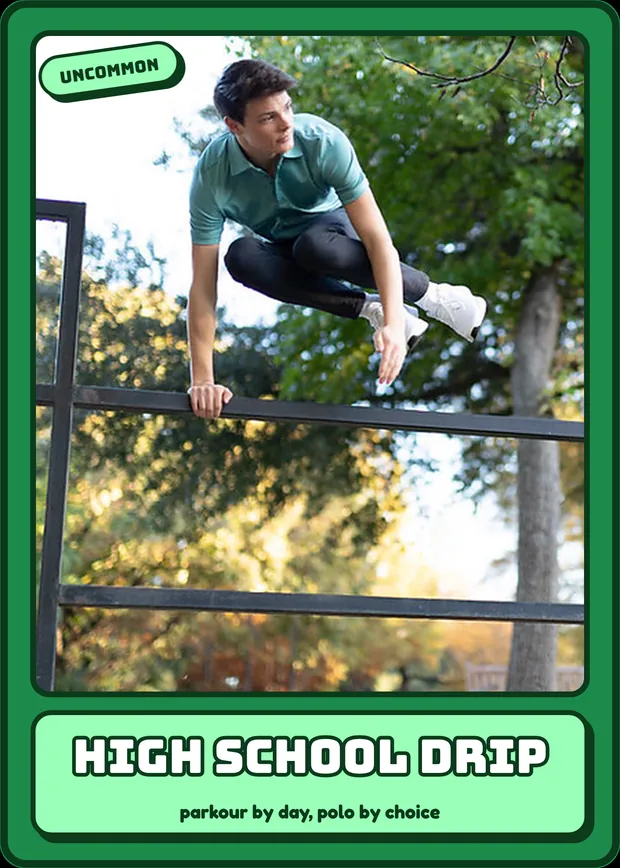
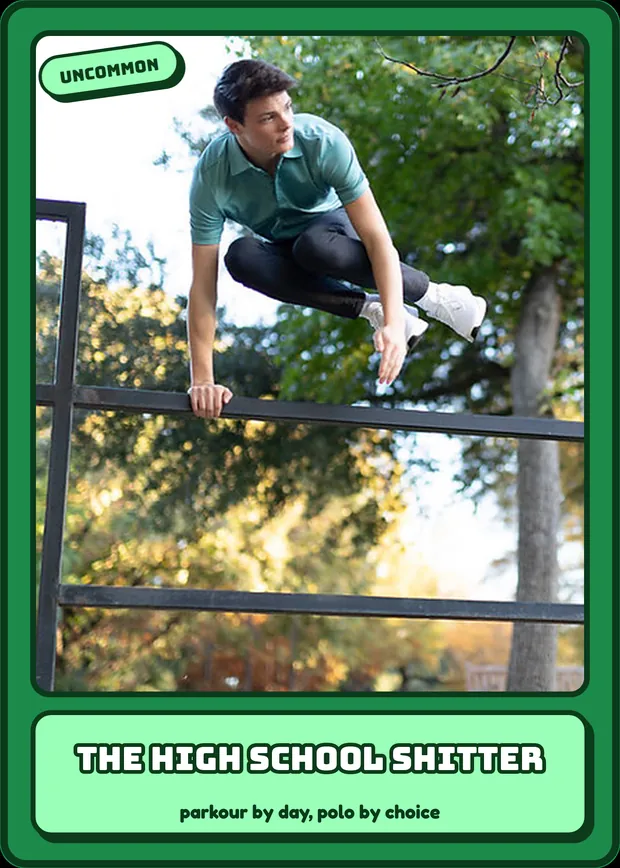
Rename High School Drip to The High School Shitter (card art too)
Claude-Session: https://claude.ai/code/session_013nJUEz6fhvJgmXenou7Czv

Changed region(s): [[0.0919, 0.8399, 0.8887, 0.9021]]

diff --git a/public/index.html b/public/index.html
@@ -5564,7 +5564,7 @@ let _FLC=null;const flCards=()=>_FLC||(_FLC=FL_ADD.map(([k,r,name,o])=>{o=o||{};
 /* ===== ChudBootyCheeks (cb, owner Oct 26): code-defined like FL_ADD. Art = public/cards/cb/<slug>.webp (620 px), ids "cb-<slug>" (never rename).
    Print runs CB_LIM (Fantasyland's + 1 Dragon); Super Rares get SR_EXTRA on top like every set. Poop-brown frame (.cbc), porta-potty logo (LOGO.cb).
    img:false = placeholder face. Faces blurred: Chad Baby (mv, the baby), Light Bearers + Tasting Flight (bystanders). */
-const CB_IMGV=1,CB_LIM=[Infinity,100,25,7,3,2,1];
+const CB_IMGV=2,CB_LIM=[Infinity,100,25,7,3,2,1];
 const CB_ADD=[
   ["united-we-sit",0,"United We Sit",{img:false}],["wraparound-warrior",0,"Wraparound Warrior"],["porch-rave",0,"Porch Rave"],["late-night-sip",0,"Late Night Sip"],
   ["safari-squad",0,"Safari Squad"],["rage-baiter",0,"Rage Baiter",{img:false}],["ball-knowledge-required",0,"Ball Knowledge Required",{img:false}],["campfire-coma",0,"Campfire Coma"],
@@ -5572,7 +5572,7 @@ const CB_ADD=[
   ["crumb-catcher",0,"Crumb Catcher"],["after-hours",0,"After Hours"],["suit-and-smoke",0,"Suit & Smoke"],["durag-diplomacy",0,"Durag Diplomacy"],
   ["suspicious-floof",0,"Suspicious Floof"],["light-bearers",0,"Light Bearers"],["good-boy-up-close",0,"Good Boy, Up Close"],["shift-crew",0,"Shift Crew"],
   ["new-friend",1,"New Friend"],["beer-lovers",1,"Beer Lovers"],["fermented-faithful",1,"Fermented & Faithful"],["boutonniere-boys",1,"Boutonniere Boys"],
-  ["caught-mid-bite",1,"Caught Mid-Bite"],["low-profile",1,"Low Profile"],["couch-council",1,"Couch Council"],["high-school-drip",1,"High School Drip",{desc:"Part of the ChudBootyCheeks collection. Pulling it gets messy."}],
+  ["caught-mid-bite",1,"Caught Mid-Bite"],["low-profile",1,"Low Profile"],["couch-council",1,"Couch Council"],["high-school-drip",1,"The High School Shitter",{desc:"Part of the ChudBootyCheeks collection. Pulling it gets messy."}],
   ["parking-lot-pavlov",1,"Parking Lot Pavlov"],["gun-show",1,"Gun Show"],
   ["knights-of-the-pint",2,"Knights of the Pint"],["grammy-hammy",2,"Grammy Hammy"],["noggatron",2,"Noggatron"],["cody-maverick",2,"Cody Maverick"],
   ["on-the-big-screen",2,"On the Big Screen"],["dark-knights",2,"The Dark Knights"],["chris-from-tinder",2,"Chris from Tinder"],["tasting-flight",2,"Tasting Flight"],
@@ -6008,7 +6008,7 @@ function viewPacks(){if(!S.me)return `<div class="empty">Sign in to collect card
         <div class="pkinfo"><div class="pkg"><span class="stlbl">Guaranteed</span> ${g}</div>
         <div class="pkodds">${[3,4,5,6].map(r=>`<span style="color:${CR[r].c}">${CR[r].n.split(" ")[0]} ${pkChance(p,r)>0?fmtPct(pkChance(p,r)):"✕"}</span>`).join("")}</div>
         <button type="button" class="btn" data-pkbuy="${p.id}" ${(bal<pkPrice(p)*pq&&!pkFree(p))||blk?"disabled":""}>${blk?"Sold out":pkFree(p)?`🎁 Open free (${pkFreeN(p)} left)`:`Open${pq>1?" "+pq+"×":""} · ${(pkPrice(p)*pq).toLocaleString()} BB${pkPrice(p)<p.price?` <s class="muted">${(p.price*pq).toLocaleString()}</s>`:""}`}</button></div></div>`}).join("")}</div>
-      <p class="small muted">Odds shown are the chance of at least one card of that rarity or better in the pack.</p>${S.canEdit&&pkSt().set==="cb"?`<button type="button" class="btn ghost small" data-cbtest>🧪 Test pack (admin, free): High School Drip + Lunch?</button>`:""}`}
+      <p class="small muted">Odds shown are the chance of at least one card of that rarity or better in the pack.</p>${S.canEdit&&pkSt().set==="cb"?`<button type="button" class="btn ghost small" data-cbtest>🧪 Test pack (admin, free): The High School Shitter + Lunch?</button>`:""}`}
   if(st.tab==="coll"){const sets=Object.keys(CSETS).filter(setOpen);const cs_=st.cset&&sets.includes(st.cset)?st.cset:sets[0];const who=st.who&&S.prefs[st.who]?st.who:S.me,mine=who===S.me;const cat=cs_==="lm"||cs_==="fl"?[...cardsCat(cs_),...curseCards()]:cardsCat(cs_);const have=cat.filter(c=>cardCountAll(c.id,who)>0).length;const isPm=cs_==="pm";const tiers=isPm?[8,7]:(cat.some(c=>c.abil==="curse")?["curse",6,5,4,3,2,1,0]:[6,5,4,3,2,1,0]);const inT=(c,r)=>r==="curse"?c.abil==="curse":c.r===r&&c.abil!=="curse";
     const head=(r,txt)=>`<div class="crhead" style="--rc:${(r==="curse"?CR_CURSE:CR[r]).c}"><span class="crdot"></span><b>${esc((r==="curse"?CR_CURSE:CR[r]).n)}</b><span class="small muted">${txt}</span></div>`;
     const lvTiles=c=>{const cs=myCards(who),ks=Object.keys(cs).filter(k=>(k===c.id||k.startsWith(c.id+"@"))&&Number(cs[k])>0).sort((a,b)=>lvOf(b)-lvOf(a));return ks.map(k=>cardHtml(cardById(k),{count:Number(cs[k]),click:true,small:true,who:mine?null:who})).join("")};
@@ -6646,6 +6646,7 @@ function tiBankHtml(){const me=S.me;if(!me)return "";const q=S.prefs[me]||{},L=l
 /* What's new: shown once per player after an update (first sign-in after a deploy). Add a NEW entry at the TOP of NEWS
    (v = previous top v + 1) for every user-visible change; plain words, no tech talk. Seen state: prefs.newsSeen (+ localStorage). */
 const NEWS=[
+ {v:136,d:"Oct 26",t:[["💩","High School Drip has been renamed The High School Shitter. Still don't pull it"]]},
  {v:135,d:"Oct 26",t:[["💩","New collection: ChudBootyCheeks, 50 new cards including a Dragon"],["🌌","Multiverse gets 3 new Super Rares: Shock & Awe, Don't Jump In and Chad Baby"],["⚡","Lots of new card abilities. Check the back of each card"],["🎓","Whatever you do, don't pull High School Drip"]]},
  {v:134,d:"Oct 26",t:[["🏆","Every Grail card now pays 1,000 BB a day"],["🔨","Card Crafting: Rares can now go to LV 4 and Super Rares to LV 3, with bigger dividends and stronger abilities"]]},
  {v:133,d:"Oct 25",t:[["💜","Every Super Rare card now has 2 more copies in the packs"]]},

diff --git a/CLAUDE.md b/CLAUDE.md
@@ -198,7 +198,7 @@ only; live tables are only subscribed while at a table. Don't add listeners on w
   Placeholders (`img:false`): supply-drop, rocktopus, forbidden-archive, average-cowboys-fan, minion-commander, legendary-crew, another-day (owner's art not usable:
   copyrighted characters / slur title). Faces of bystanders blurred in honors-class-clown, autism-attack; mirror reflection in squeaky-clean.
 - **ChudBootyCheeks (`cb`, Oct 26, owner's Card_Expansion.xlsx):** code-defined like Fantasyland: `CB_ADD`, `cbCards()`, art `public/cards/cb/<slug>.webp` (`CB_IMGV`), print runs `CB_LIM` [∞,100,25,7,3,2,1] (+SR_EXTRA), open to all (`setOpen`), poop-brown frame `.cbc`, `.setcard.poop`, porta-potty `LOGO.cb`. Owner Oct 26: parody art with copyrighted characters (Batman, Lightning McQueen) is OK for this private app — don't flag it. Placeholders (`img:false`): United We Sit, Rage Baiter, Ball Knowledge Required, Rotunda Rumble Disaster, Beowulf Wages (Dragon). Faces blurred: Chad Baby (mv), Light Bearers, Tasting Flight.
-  Abilities (AB2, LV2+ for Common–SR): `unitedsit` (`hlUws`, High-Low end-card ×), `ballk` (NBA bets via `bxOf(P,true)`), `floof` (High-Low same-rank loss refund), `newfriend` (Bank box, House → chosen player, bank `nf_<me>_<day>`), `gun`/`bigscreen` (`slRet`), `cody` (Flappy pipes past N skip the cap: `ext`), `chris` (steal a LV1 card: `steals/<me>_<day>`, victim's page removes it via `stealProc`, failed → thief's page reverts), `crab` (2nd wheel spin `wheel_<me>_<slot>_b`), `giga` (+% in `abWin` while `bjViewers(S.tab)`), `caleb` (bust refund in `bjSettle`), `rotunda` (`cbAuto`: won bets ≥+200 → `prefs.freePk{packId:n}`, used by `pkFreeN`; odds from `ledger().wr`), `summer` (roulette red/black refunded on 0), `btc` (`cbAuto`: balance <1 → 10,000 once a day, bank `btc_<me>_<day>`), `chad` (mv, +5% on 1st-12 wins), `swole` (fl Swole Jesus, +v% per 20 pipes). Code ability `lunch` (Lunch?): pulling it isn't kept (`pulls.lunchI`), takes `LUNCH_PCT` 10% (max `LUNCH_CAP` 50k) of every richer player → bank `lunch_<me>_<at>` {kind:"lunch",pay} (ledger + bkActivity like bounty). High School Drip pull → `slimeShow()` full-screen slime, swipe 80% off. Admin "🧪 Test pack" in the cb shop (`cbTestPack`, free, nothing saved).
+  Abilities (AB2, LV2+ for Common–SR): `unitedsit` (`hlUws`, High-Low end-card ×), `ballk` (NBA bets via `bxOf(P,true)`), `floof` (High-Low same-rank loss refund), `newfriend` (Bank box, House → chosen player, bank `nf_<me>_<day>`), `gun`/`bigscreen` (`slRet`), `cody` (Flappy pipes past N skip the cap: `ext`), `chris` (steal a LV1 card: `steals/<me>_<day>`, victim's page removes it via `stealProc`, failed → thief's page reverts), `crab` (2nd wheel spin `wheel_<me>_<slot>_b`), `giga` (+% in `abWin` while `bjViewers(S.tab)`), `caleb` (bust refund in `bjSettle`), `rotunda` (`cbAuto`: won bets ≥+200 → `prefs.freePk{packId:n}`, used by `pkFreeN`; odds from `ledger().wr`), `summer` (roulette red/black refunded on 0), `btc` (`cbAuto`: balance <1 → 10,000 once a day, bank `btc_<me>_<day>`), `chad` (mv, +5% on 1st-12 wins), `swole` (fl Swole Jesus, +v% per 20 pipes). Code ability `lunch` (Lunch?): pulling it isn't kept (`pulls.lunchI`), takes `LUNCH_PCT` 10% (max `LUNCH_CAP` 50k) of every richer player → bank `lunch_<me>_<at>` {kind:"lunch",pay} (ledger + bkActivity like bounty). The High School Shitter (id `cb-high-school-drip`, was "High School Drip") pull → `slimeShow(cardRect)`: slime bursts out of the card, "U JUST GOT SHIT ON", full-screen slime, swipe 80% off. Admin "🧪 Test pack" in the cb shop (`cbTestPack`, free, nothing saved).
 - **Multi-pack (Oct 25):** shop "Packs at a time" 1/3/5/10 (`S.pk.qty`, `[data-pkqty]`); `pkBuy` loops `pkBuy1` (the old single purchase, unchanged money path) and awaits each `pkShowOpen` promise (Done button reads "Next pack (k of n)"); balance/sold-out re-checked before each; free packs always 1. Done now stays on the shop.
 - **Daily tournaments (Oct 25)** (`tour*`, panels on Flappy `fpStatsHtml` + High-Low `#tourHl` via hlRefresh): `TOUR` fee 3,000 (was 2,500 for the first hour; pot = Σ entry `amt` × cut, `tourPaid`), `TOUR_TRIES` 3 (was 5), day = `divDay()`. Entry = bank doc `tour_<g>_<day>_<me>` {kind:"tourney",from:me,to:"house",amt,g,day,best,bestAt,tries} (player updates best/tries). Flappy: `FP.tourArm` → `FP.tourRun` (no farm BB, no stats), High-Low: `S.thl` stake-free streak (ties lose), best saved on every right guess. `tourSettle` (any page, every 45 s): `bank/tourpay_<g>_<day>` house → winner, pot = entries × fee × `TOUR_CUT` .85 (owner: the 15% house cut is never shown, only the pot). Winner = best, then earliest bestAt. Only one entrant → `refund:true`, the full entry back (owner). Tie for first: 2 entrants → both refunded; 3+ → pot split evenly (`split:n`). Payout docs carry `pays` {id:amt} (ledger + bkActivity read it; `to`/`amt` = first recipient for old copies). Winner's page posts chat once (`prefs.tourWon`).
 - **Paid wheel spins (Oct 25):** `WHEEL_PAID` 4,500 (EV ≈ 4,100). One bank doc `wheel_<me>_paid<at>` with the NET (house → me if prize > cost, else me → house), `prize`/`cost` kept on it.
